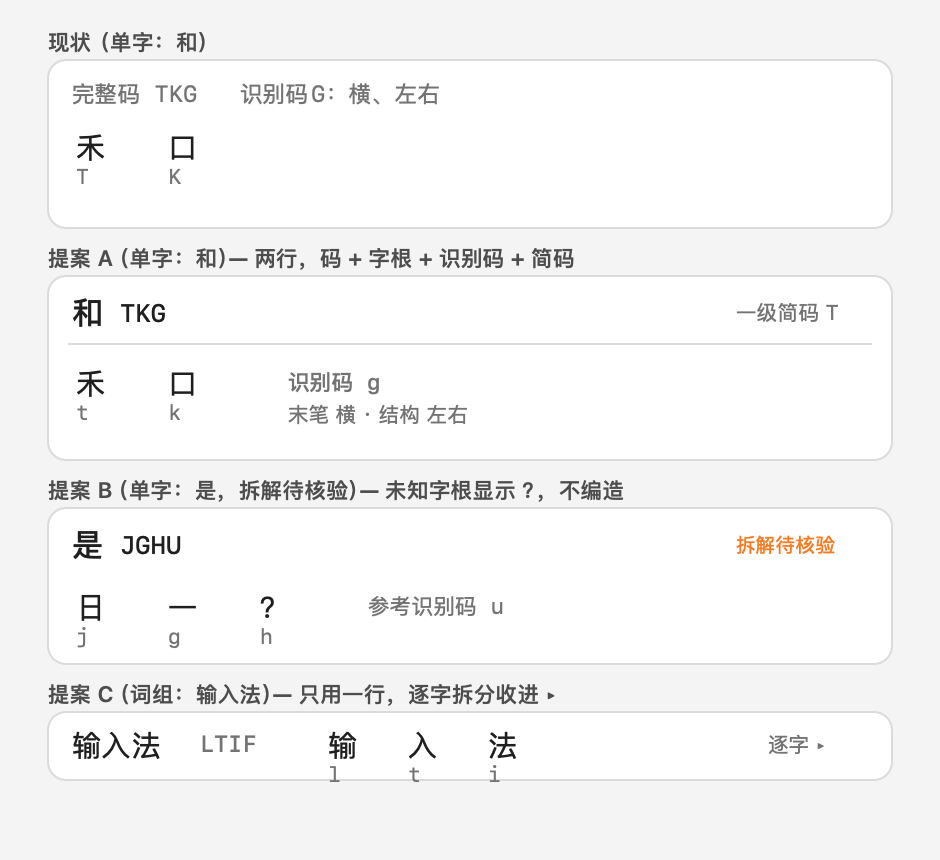
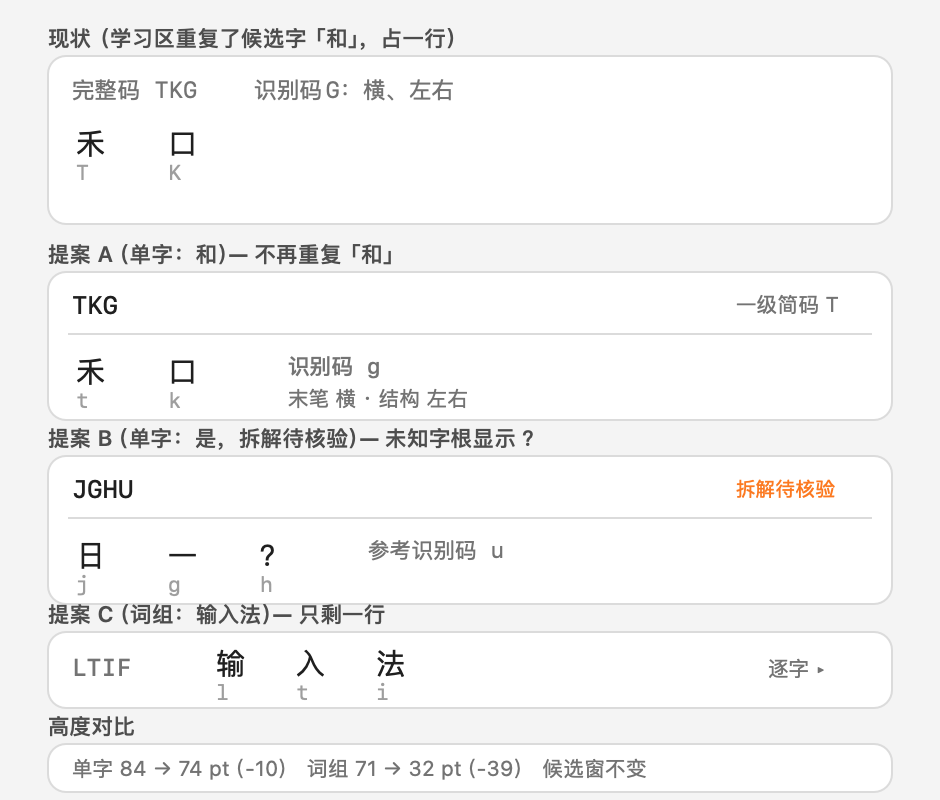
docs: drop the repeated character from the learning area sketch
The learning area follows the highlighted candidate, which the candidate window already shows in a
selected state, so printing the character or word again spends a whole line on information the user
can already see. The sketch now leads with the full code and short code, then the radical cells and
the recognition derivation, taking a single character panel from 84 to 74 points and a word panel
from 71 to 32 because words need only one line.

The candidate window itself stays untouched, and the three open questions are carried over.

diff --git a/docs/design/l3-hint.md b/docs/design/l3-hint.md
@@ -1,62 +1,70 @@
 # 学习区（⌥L）· 草图与规格（B3 批，待评审后实现）
 
-> 2026-11-06 第二稿。用户裁定：**候选窗保持简洁，零改动**；学习信息只在 ⌥L 学习区；
-> 学习区自己也必须精简。草图见 [`learning-area-mock.png`](learning-area-mock.png)（四格：现状 + 三个提案）。
+> 2026-11-06 第三稿。用户裁定：**候选窗保持简洁，零改动**；学习信息只在 ⌥L 学习区；
+> 学习区自己也必须精简；并且——**学习区不重复当前字/词**（它已在候选窗里处于选中态）。
+> 草图见 [`learning-area-mock.png`](learning-area-mock.png)（五格：现状 + A/B/C + 高度对比）。
 
 ## 1. 原则
 
 1. **候选窗不动**：不加提示行、不改高度、不改配色——第一稿"候选窗下方加一行"的方案作废。
 2. **只在学习区**：沿用既有的 ⌥L 开关（`candidate.show_wubi_learning`，默认关）。
-3. **学习区也要短**：单字最多两行；词组两行以内；长内容一律收进「逐字 ▸」，不铺开。
+3. **学习区也要短**：单字最多两行；**词组合成一行**；长内容一律收进「逐字 ▸」，不铺开。
+4. **不重复当前字/词**：候选窗里已经高亮选中，学习区只讲"这个字怎么来的"，不再画一遍字。
 
 ## 2. 现状（草图第 1 格）
 
 ```
 完整码 TKG    识别码G：横、左右
- 禾     口
+ 禾     口            ← 识别码也被当成字根格子排在末尾
  T      K
 ```
 
-- 码与说明挤在同一行，识别码用"G：横、左右"这种紧凑写法，可读性一般；
-- 字根格子把"识别码"也当成一个字根格子排在末尾，与真实字根混在一起；
-- 词组必须点开「逐字拆分」才能看到逐字信息，展开后是长列表。
+三个问题：① 码与说明挤一行、识别码用"G：横、左右"这种压缩写法；② 识别码被混进字根格子里；
+③ 词组要展开「逐字拆分」才能看逐字信息。而且学习区**重复显示候选字**（下图中「和」占一整行）。
 
 ## 3. 提案（草图第 2–4 格）
 
-### A. 单字（两行）
+### A. 单字（两行，不重复字）
 
 ```
-和  TKG                              一级简码 T
+TKG                                  一级简码 T
 ──────────────────────────────────────────────
 禾      口            识别码 g
 t       k             末笔 横 · 结构 左右
 ```
 
-- 第一行：字 + 完整码（mono）+ 右侧简码（有才显示）；
+- 第一行只有**完整码**（mono）+ 右侧简码（有才显示）；
 - 分隔线后：字根格子（字形上、键位下，键位小号灰）+ 右侧识别码依据两行；
-- 没有简码/识别码时，对应位置留空，不写"无"。
+- 无简码/识别码时留空，不写"无"。
 
 ### B. 拆解待核验（两行，不编造）
 
 ```
-是  JGHU                                拆解待核验
+JGHU                                    拆解待核验
 ──────────────────────────────────────────────
 日      一      ？        参考识别码 u
 j       g       h
 ```
 
-- 未知字根显示 **？**（键位照常给出），右上角橙色小字「拆解待核验」；
-- 识别码只有参考值，标注「参考」。
+- 未知字根显示 **？**（键位照常），右上角橙色小字「拆解待核验」；识别码标「参考」。
 
-### C. 词组（两行）
+### C. 词组（一行）
 
 ```
-输入法  LTIF          输      入      法        逐字 ▸
-                      l       t       i
+LTIF          输      入      法        逐字 ▸
+              l       t       i
 ```
 
-- 只显示前 3 个字的字根/编码，第 4 个以后省略；
-- 完整逐字拆分收进「逐字 ▸」，展开后仍是紧凑列表（每字一行、可折叠）。
+- 一行放下：完整码 + 前 3 字的字根/首码 + 「逐字 ▸」；
+- 展开后是紧凑列表（每字一行、可折叠），不再铺开大段文字。
+
+### 高度对比（草图第 5 格）
+
+| 场景 | 现状 | 提案 |
+|---|---|---|
+| 单字 | 84 pt | **74 pt** |
+| 词组 | 71 pt | **32 pt** |
+| 候选窗 | — | **不变** |
 
 ## 4. 数据来源
 
@@ -80,9 +88,10 @@ j       g       h
 
 ## 6. 尺寸
 
-- 面板宽度跟随候选窗内部宽度；单字高度约 **76 pt**（两行 + 分隔线），词组同高；
-- 字号：字 16、完整码 mono 12.5、字根 15、键位 mono 10.5、说明 10.5–11；
-- 颜色：正文近黑、键位与说明为次级灰、`拆解待核验` 用系统橙（不新增自定义色）。
+- 面板宽度跟随候选窗内部宽度；单字 **74 pt**（两行 + 分隔线），词组 **32 pt**（一行）；
+- 字号：完整码 mono 12.5、字根 15、键位 mono 10.5、说明 10.5–11；
+- 颜色：正文近黑、键位与说明次级灰、`拆解待核验` 用系统橙（不新增自定义色）；
+- 候选窗本身尺寸、配色、圆角**一律不动**。
 
 ## 7. 验收（B3 完成标志）
 
@@ -90,13 +99,13 @@ j       g       h
 |---|---|
 | 候选窗 | 关闭/打开 ⌥L 时**候选窗本身逐像素不变** |
 | 文案 | 与 `B0-runtime.tsv` 第四列一致；`partial` 必带「拆解待核验」 |
-| 高度 | 单字与词组都 ≤ 两行（超出进「逐字 ▸」） |
+| 高度 | 单字 ≤ 74 pt、词组 ≤ 32 pt（超出进「逐字 ▸」），候选窗高度不变 |
 | 性能 | 稳态 p95 ≤16 ms 不劣化；学习区刷新不阻塞候选 |
 | 内存 | 打开 ⌥L 后常驻增加 ≤1 MiB |
 | 降级 | 删掉资源文件后仍能显示全码（D14 兜底），不崩溃 |
 
-## 8. 待你确认的三点
+## 8. 待确认的三点
 
-1. 第一行右侧的**简码**放右上角，还是并到第二行与识别码同侧？
-2. 识别码依据写成「末笔 横 · 结构 左右」两行，还是压成一行「横/左右」？
-3. 词组只显示**前 3 字**是否够（4 字词只显示 3 个，其余进「逐字」）？
+1. **简码**放第一行右上角（现方案），还是并到第二行与识别码同侧？
+2. 识别码依据写成「识别码 g / 末笔 横 · 结构 左右」两行（现方案），还是压成一行「g（横/左右）」？
+3. 词组只显示**前 3 字**是否够（4 字词省略第 4 个，其余进「逐字」）？
